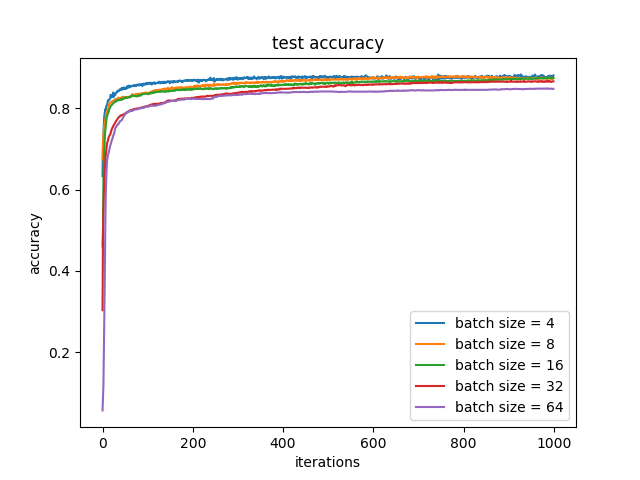
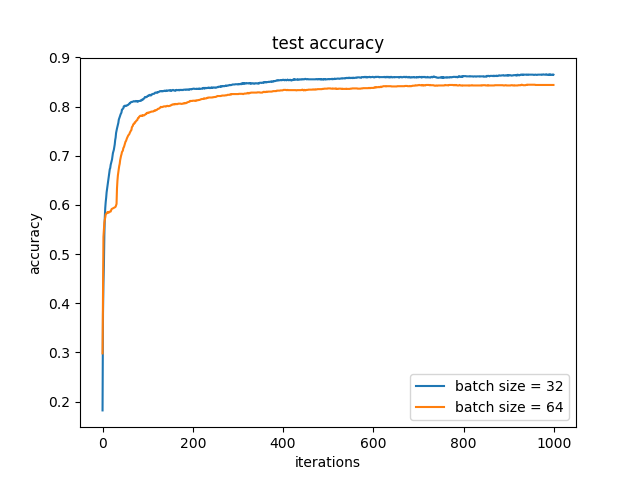
fixed shared bug

diff --git a/project_1/part_a/q2/main.py b/project_1/part_a/q2/main.py
@@ -2,9 +2,13 @@ import numpy as np
 import theano
 import theano.tensor as T
 import matplotlib.pyplot as plt
+import time
 
 def init_bias(n = 1):
-    return(theano.shared(np.zeros(n), theano.config.floatX))
+    return(np.zeros(n))
+
+def create_bias(n = 1):
+    return(theano.shared(init_bias(n), theano.config.floatX))
 
 def init_weights(n_in=1, n_out=1, logistic=True):
     W_values = np.asarray(
@@ -16,6 +20,10 @@ def init_weights(n_in=1, n_out=1, logistic=True):
         )
     if logistic == True:
         W_values *= 4
+    return W_values
+
+def create_weights(n_in=1, n_out=1, logistic=True):
+    W_values = init_weights(n_in, n_out, logistic)
     return (theano.shared(value=W_values, name='W', borrow=True))
 
 # scale data
@@ -40,7 +48,6 @@ def shuffle_data (samples, labels):
     samples, labels = samples[idx], labels[idx]
     return samples, labels
 
-
 decay = 1e-6
 learning_rate = 0.01
 epochs = 1000
@@ -49,8 +56,8 @@ epochs = 1000
 X = T.matrix() #features
 Y = T.matrix() #output
 
-w1, b1 = init_weights(36, 10), init_bias(10) #weights and biases from input to hidden layer
-w2, b2 = init_weights(10, 6, logistic=False), init_bias(6) #weights and biases from hidden to output layer
+w1, b1 = create_weights(36, 10), create_bias(10) #weights and biases from input to hidden layer
+w2, b2 = create_weights(10, 6, logistic=False), create_bias(6) #weights and biases from hidden to output layer
 
 h1 = T.nnet.sigmoid(T.dot(X, w1) + b1)
 py = T.nnet.softmax(T.dot(h1, w2) + b2)
@@ -105,14 +112,15 @@ n = len(trainX)
 result = dict()
 result["test_accuracy"] = []
 result["train_cost"] = []
+result["time_update"] = []
 
-batch_size_list = [4, 8, 16, 32, 64]
+# batch_size_list = [4, 8, 16, 32, 64]
+batch_size_list = [32, 64]
 
 for batch_size in batch_size_list:
     test_accuracy = []
     train_cost = []
-    w1, b1 = init_weights(36, 10), init_bias(10) #weights and biases from input to hidden layer
-    w2, b2 = init_weights(10, 6, logistic=False), init_bias(6) #weights and biases from hidden to output layer
+    t = time.time()
     for i in range(epochs):
         trainX, trainY = shuffle_data(trainX, trainY)
         cost = 0.0
@@ -123,8 +131,17 @@ for batch_size in batch_size_list:
 
         test_accuracy.append(np.mean(np.argmax(testY, axis=1) == predict(testX)))
         # print(test_accuracy)
+
+    print("Before : ", w1.get_value()[0])
+    w1.set_value(init_weights(36, 10))
+    b1.set_value(init_bias(10)) #weights and biases from input to hidden layer
+    print("After : ", w1.get_value()[0])
+    w2.set_value(init_weights(10, 6, logistic=False))
+    b2.set_value(init_bias(6)) #weights and biases from hidden to output layer
+
     result["test_accuracy"].append(test_accuracy)
     result["train_cost"].append(train_cost)
+    result["time_update"].append(((time.time()-t))/epochs*np.arange(epochs))
 
 #print('%.1f accuracy at %d iterations'%(np.max(test_accuracy)*100, np.argmax(test_accuracy)+1))
 
@@ -147,5 +164,13 @@ plt.xlabel('iterations')
 plt.ylabel('accuracy')
 plt.title('test accuracy')
 plt.savefig('p2a_sample_accuracy.png')
+
+plt.figure()
+for label, time, cost in zip(batch_size_list, result["time_update"], result["train_cost"]):
+    plt.plot(time, cost, label="batch size = " + str(label))
+plt.xlabel('time for update in s')
+plt.ylabel('cross-entropy')
+plt.title('title')
+plt.savefig('p2b_time_update.png')
 
 plt.show()

diff --git a/project_1/part_a/q1/main.py b/project_1/part_a/q1/main.py
@@ -3,6 +3,7 @@ import theano
 import theano.tensor as T
 import matplotlib.pyplot as plt
 
+
 def init_bias(n = 1):
     return(theano.shared(np.zeros(n), theano.config.floatX))
 
